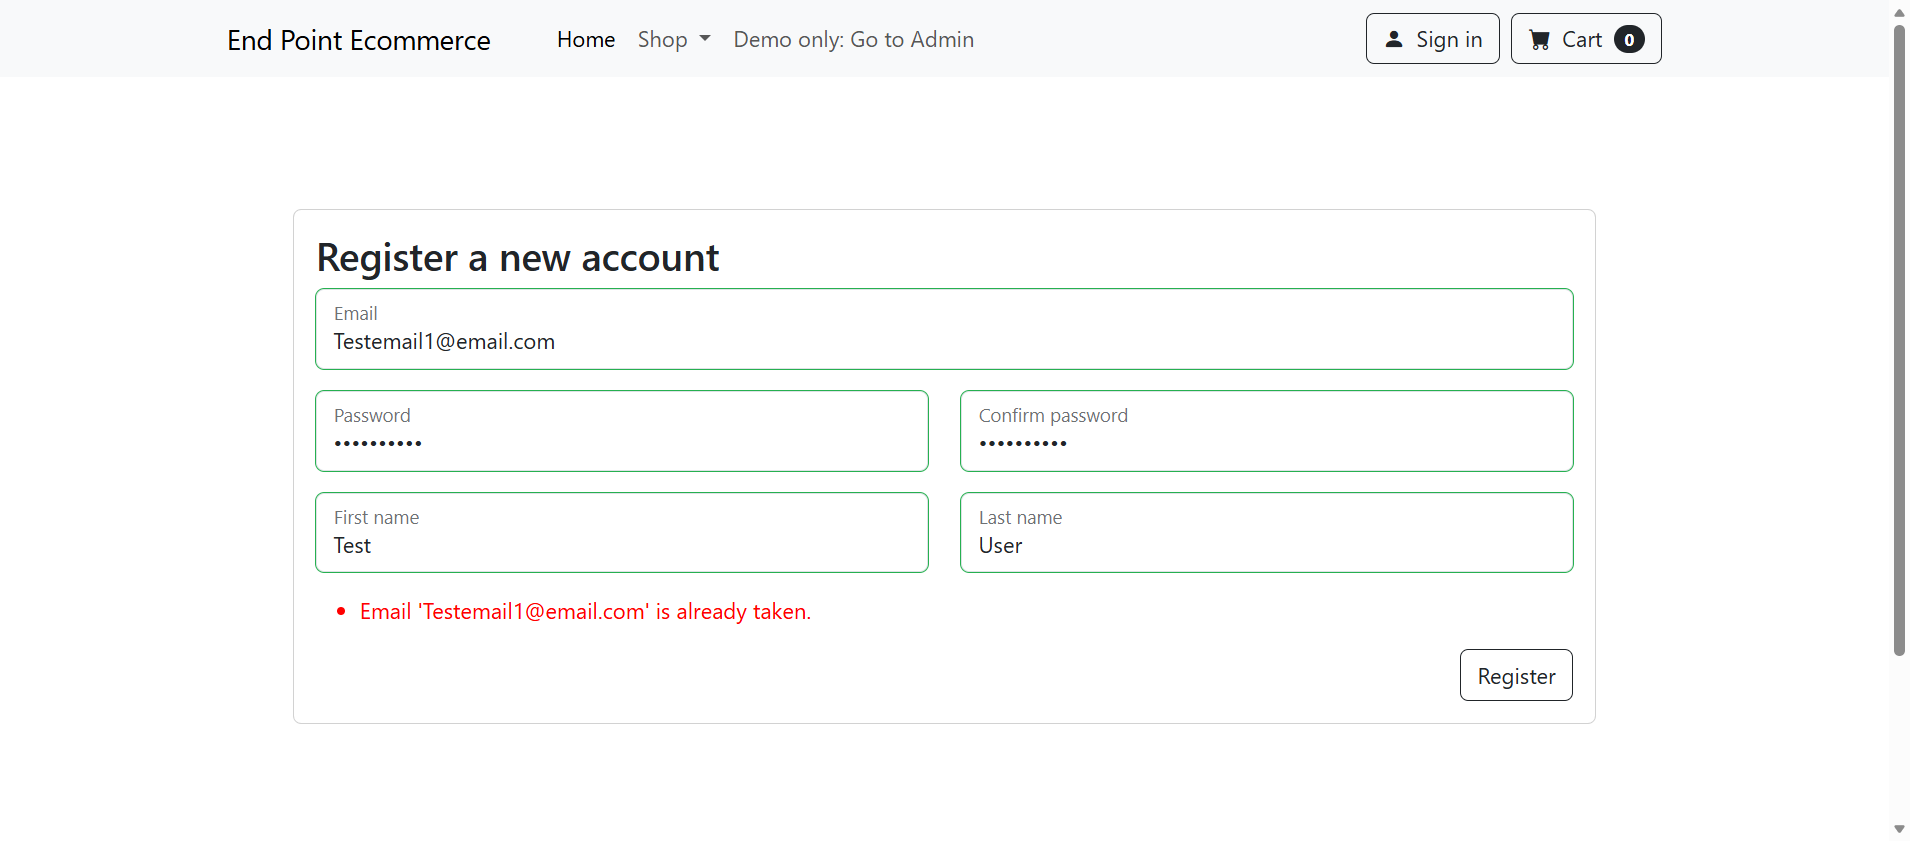
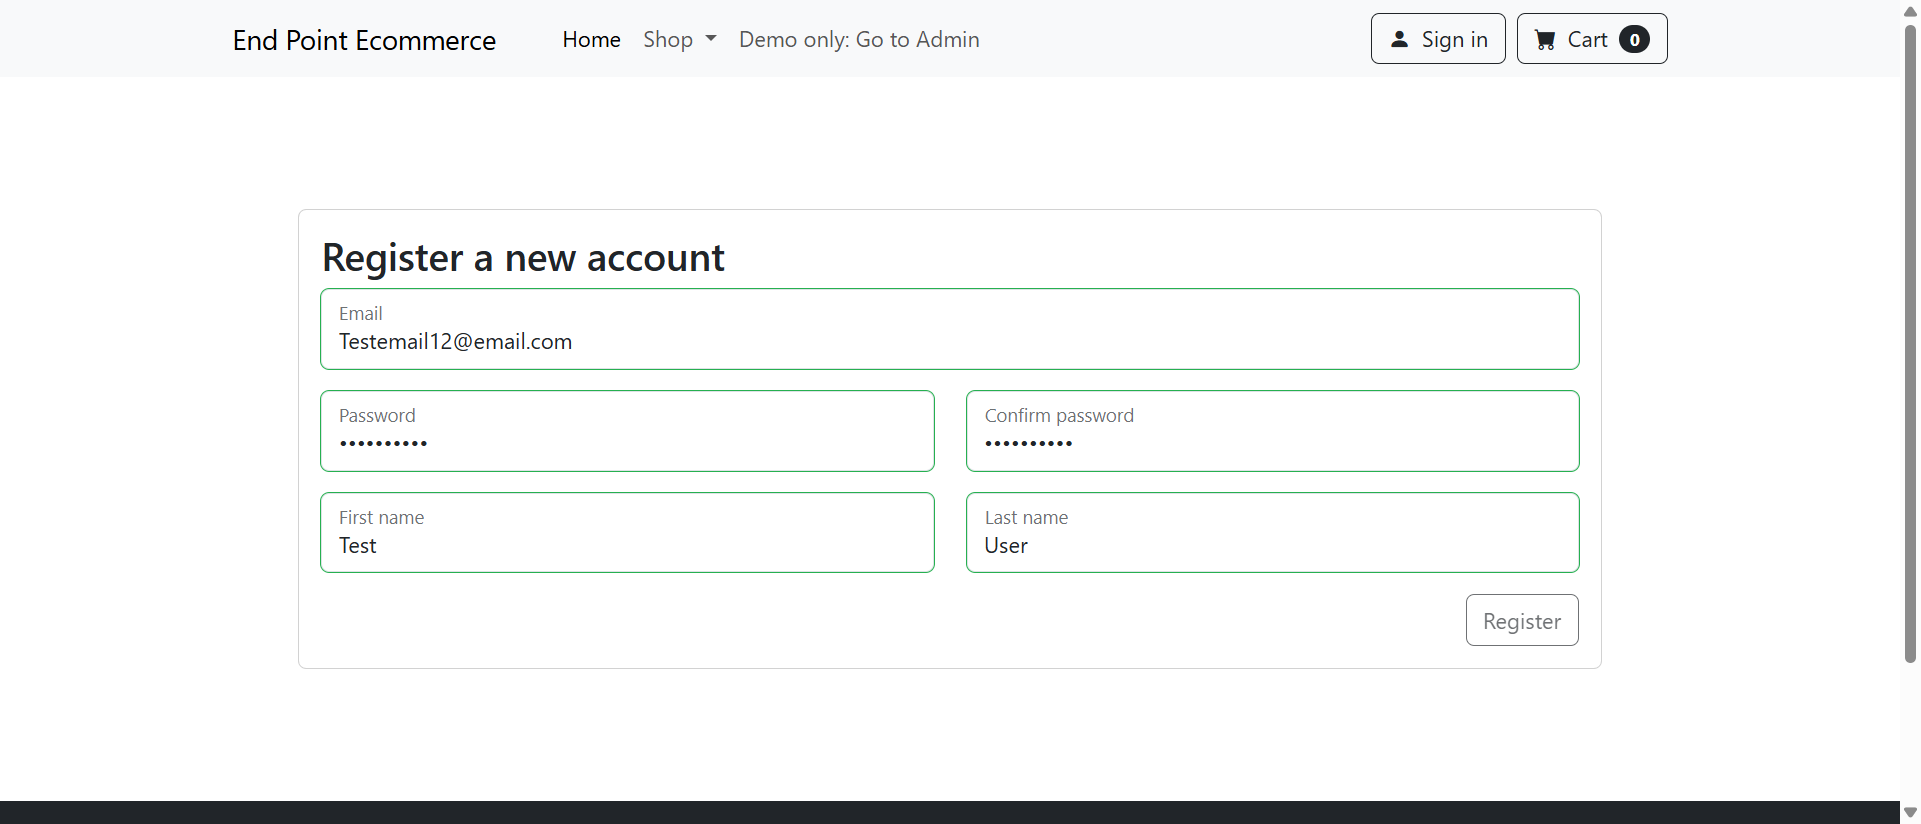
Update

diff --git a/Testcases/test_register.py b/Testcases/test_register.py
@@ -10,16 +10,16 @@ class TestRegister:
         regObj = RegisterPage(driver)  # Creating object for register class
 
         regObj.click_signin()
-        time.sleep(2)  # Hardcore wait
+        # time.sleep(2)  # Hardcore wait
         regObj.click_create_new_account()
-        time.sleep(2)
+        # time.sleep(2)
         regObj.enter_email("Testemail12@email.com")
         regObj.enter_password("Test@12345")
         regObj.enter_confirm_password("Test@12345")
         regObj.enter_first_name("Test")
         regObj.enter_last_name("User")
         regObj.click_register()
-        time.sleep(2)
+        # time.sleep(2)
 
         # Assertion # Screenshot Validation After sucessful registration
         try:
@@ -31,19 +31,32 @@ class TestRegister:
         
         driver.quit()
  
-        # def test_register_with_first_name_empty(Self, driver):
-        #     driver.get("https://demo.ecommerce.endpointdev.com/")
-        #     time.sleep(5)
-        #     regObj = RegisterPage(driver)  # Creating object for register class
+    def test_register_with_first_name_empty(Self, driver):
+        driver.get("https://demo.ecommerce.endpointdev.com/")
+        time.sleep(5)
+        regObj = RegisterPage(driver)  # Creating object for register class
 
-        #     regObj.click_signin()
-        #     time.sleep(2)  # Hardcore wait
-        #     regObj.click_create_new_account()
-        #     time.sleep(2)
-        #     regObj.enter_email("Testemail@email.com")
-        #     regObj.enter_password("Test@12345")
-        #     regObj.enter_confirm_password("Test@12345")
-        #     regObj.enter_first_name("")  # Empty first name
-        #     regObj.enter_last_name("User")
-        #     regObj.click_register()
+        regObj.click_signin()
+        # time.sleep(2)  # Hardcore wait
+        regObj.click_create_new_account()
+        # time.sleep(2)
+        regObj.enter_email("Testemail@email.com")
+        regObj.enter_password("Test@12345")
+        regObj.enter_confirm_password("Test@12345")
+        regObj.enter_first_name("")  # Empty first name
+        regObj.enter_last_name("User")
+        regObj.click_register()
+        # time.sleep(2)
+    
+        #Assertion
+        expected_error_message = "The FirstName field is required."
+        actual_error_message = regObj.get_firstname_error_message()
+        try:
+            assert expected_error_message == actual_error_message, "Error message does not match"
+            print("Error message validation passed")
+        except AssertionError:
+            driver.save_screenshot("Screenshots/FirstNameError.png")
+            print("Error message validation failed")
+            
+
         

diff --git a/PageObjects/RegisterPage.py b/PageObjects/RegisterPage.py
@@ -2,10 +2,16 @@
 from selenium import webdriver
 import time 
 from selenium.webdriver.common.by import By
+from selenium.webdriver.support.ui import WebDriverWait
+from selenium.webdriver.support import expected_conditions as EC
 
 class RegisterPage:
     def __init__(self, driver: webdriver.Chrome):  # initializing the driver
         self.driver = driver
+
+        # Implicit wait
+        # Implicit Wait
+        self.driver.implicitly_wait(10)
 
         # Saving Locators in a variable
         self.Signin_button = (By.XPATH, "//a[normalize-space()='Sign in']")
@@ -16,6 +22,9 @@ class RegisterPage:
         self.first_name_textbox = (By.ID, "RegisterInput.FirstName")
         self.last_name_textbox = (By.ID, "RegisterInput.LastName")
         self.register_button = (By.XPATH, "//button[@type='submit']")
+
+        # Error meassge locators
+        self.First_name_error = (By.CLASS_NAME, "text-danger")
 
     def click_signin(self):
         self.driver.find_element(*self.Signin_button).click()
@@ -45,6 +54,11 @@ class RegisterPage:
 
     def click_register(self):
         self.driver.find_element(*self.register_button).click()
+
+    def get_firstname_error_message(self):
+        error = WebDriverWait(self.driver, 10).until(EC.visibility_of_element_located(self.First_name_error))
+        return error.text
+
 
     
 
